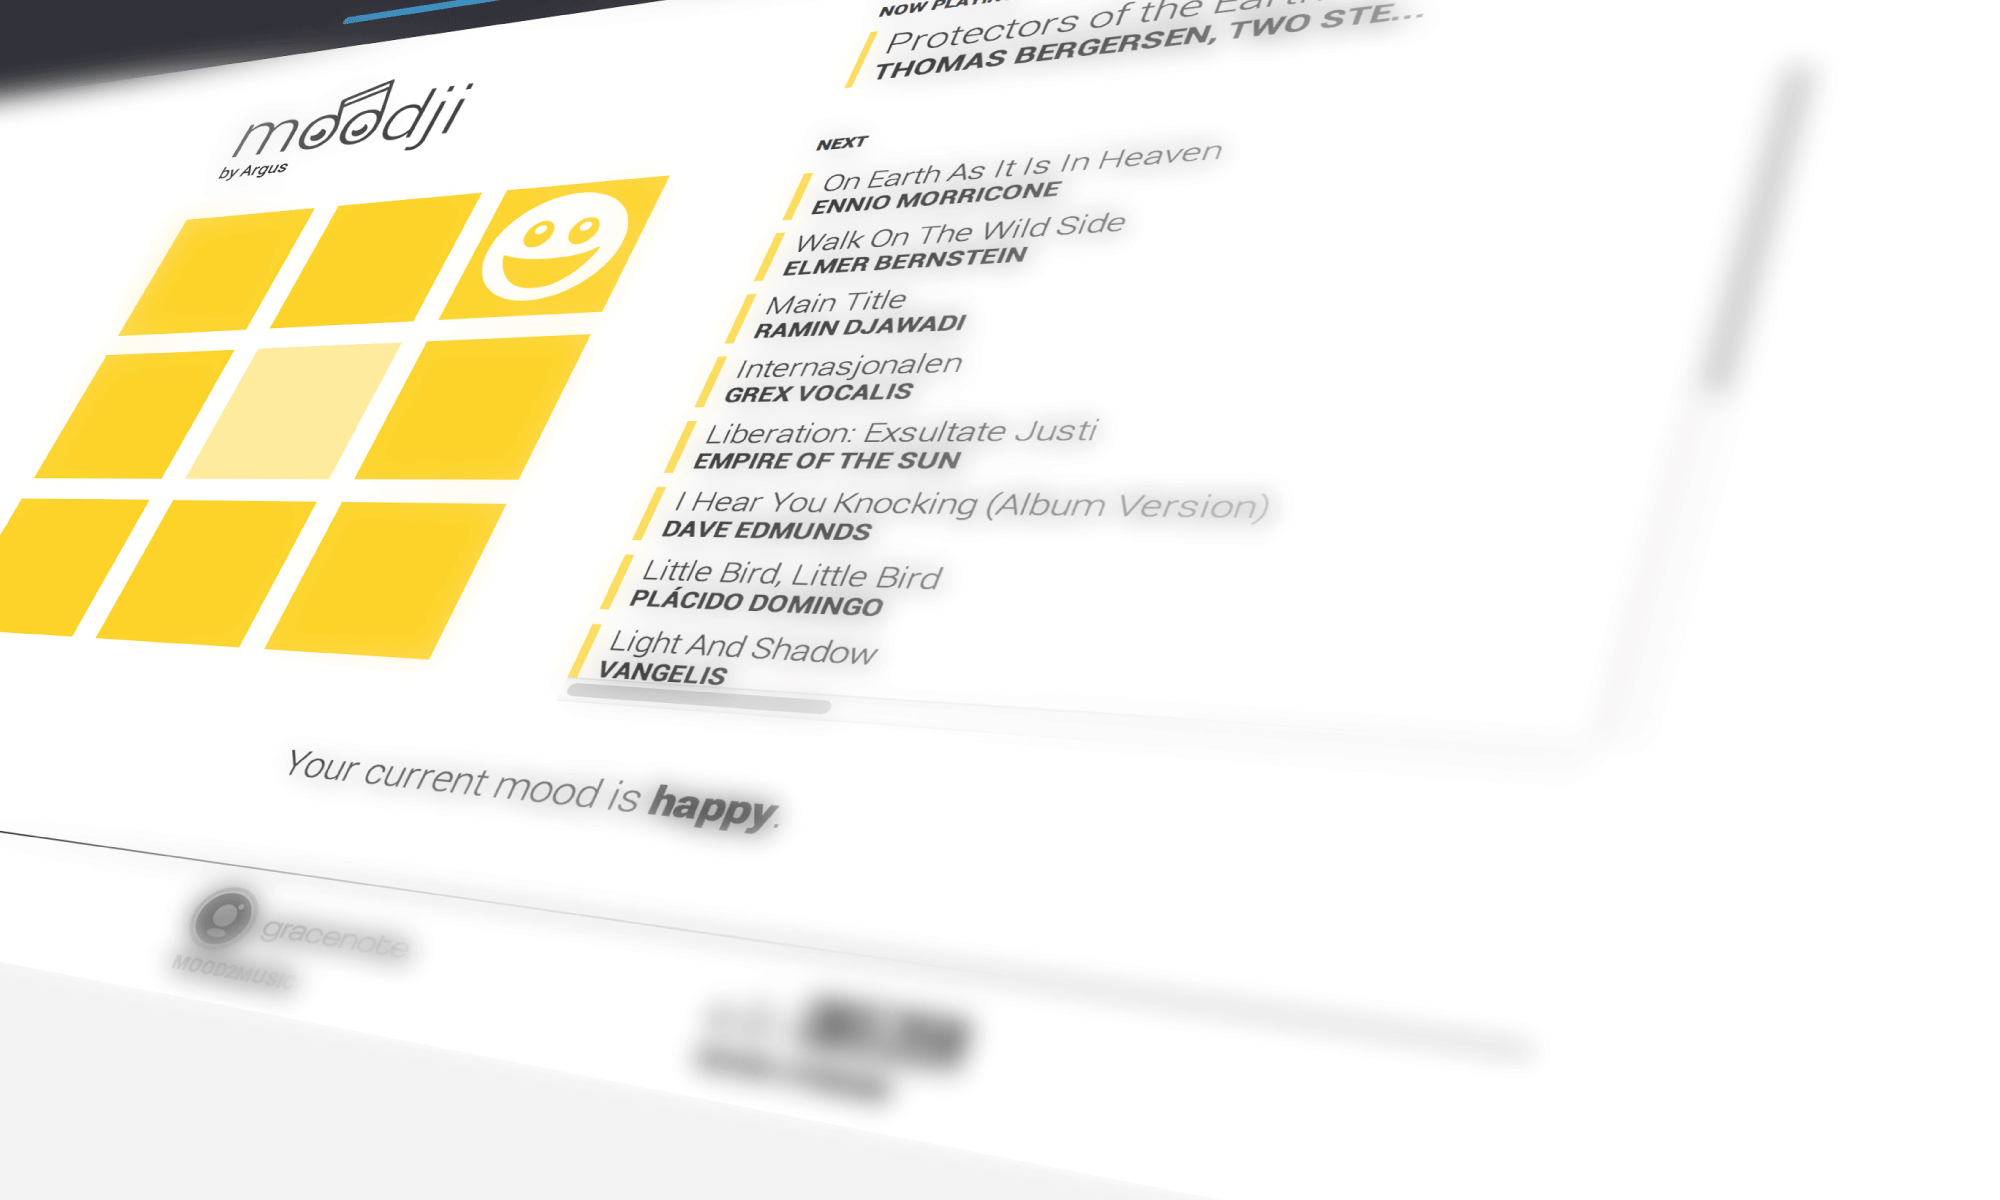
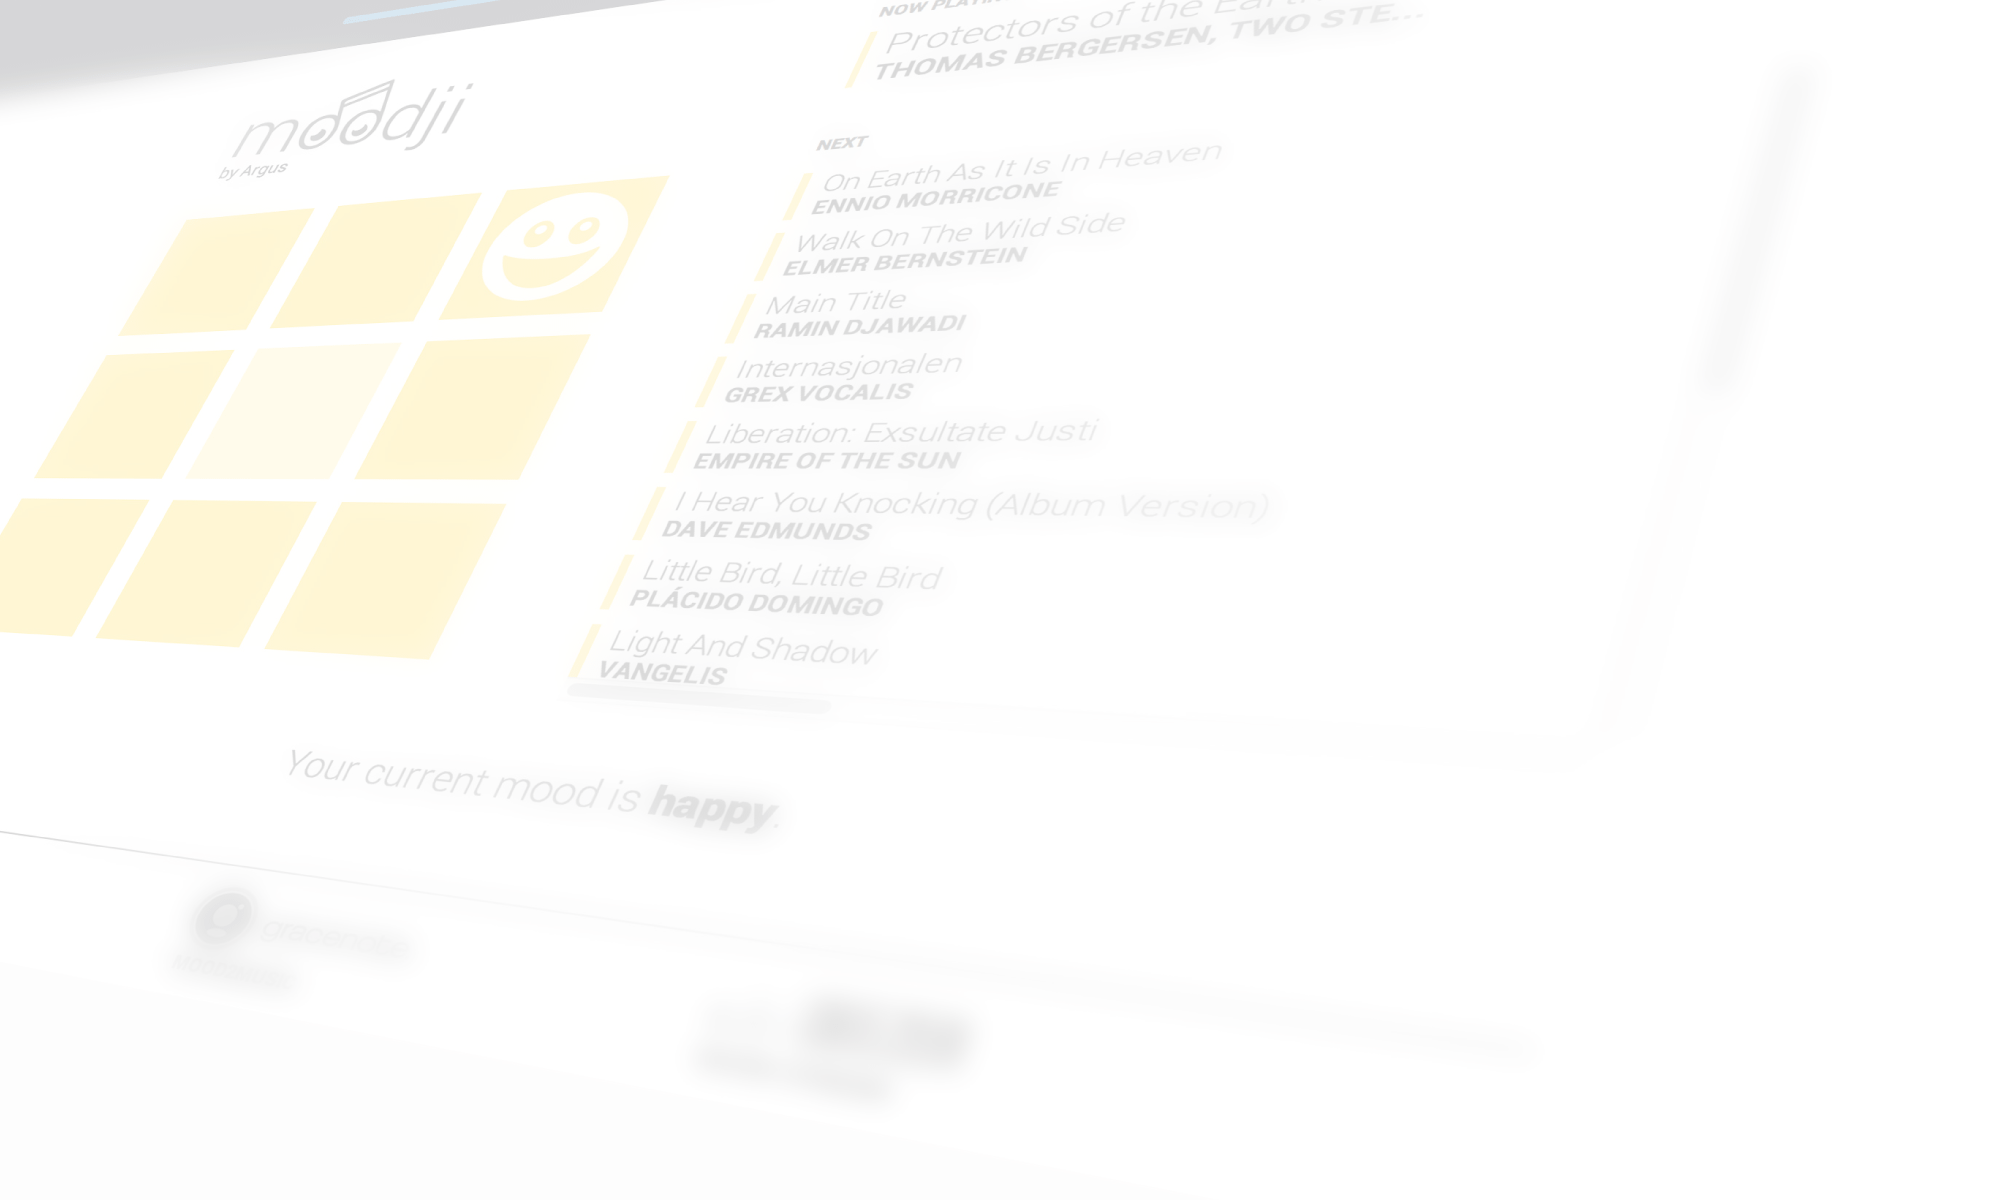
background image for the about page

diff --git a/about.html b/about.html
@@ -10,7 +10,7 @@
 	<link rel="stylesheet" type="text/css" href="credits.css">
 	<link rel="stylesheet" type="text/css" href="aboutpage.css">
 
-<body>
+<body class="aboutbody">
 		
 		<div class="header" class="aboutpage">
 			<div id="headercontainer">
@@ -24,7 +24,7 @@
 			</div>
 		</div>
 
-		<div class="content" class="aboutcontent">
+		<div class="content aboutcontent">
 			
 			<div class="abouttext">
 				<div class="jobdescription">
@@ -87,7 +87,7 @@
 			</div>					
 		
 			<div class="nav">
-				<a href="index.html" title="Back to the Moodji App">Back to Moodji</a>
+				<a href="index.html" title="Back to the Moodji App">&larr; Back to Moodji</a>
 			</div>	
 		</div>
 

diff --git a/aboutpage.css b/aboutpage.css
@@ -3,8 +3,11 @@
 	text-align: left;
 }
 
-.aboutcontent {
-	background-image: url('/aboutpage/introslide-musichackday.png');
+.aboutbody {
+	background-image: url('aboutpage/introslide-musichackday.png');
+	background-position: 0px 200px;
+    background-size: cover;
+    background-repeat: no-repeat;
 }
 
 .aboutpagecopy {
